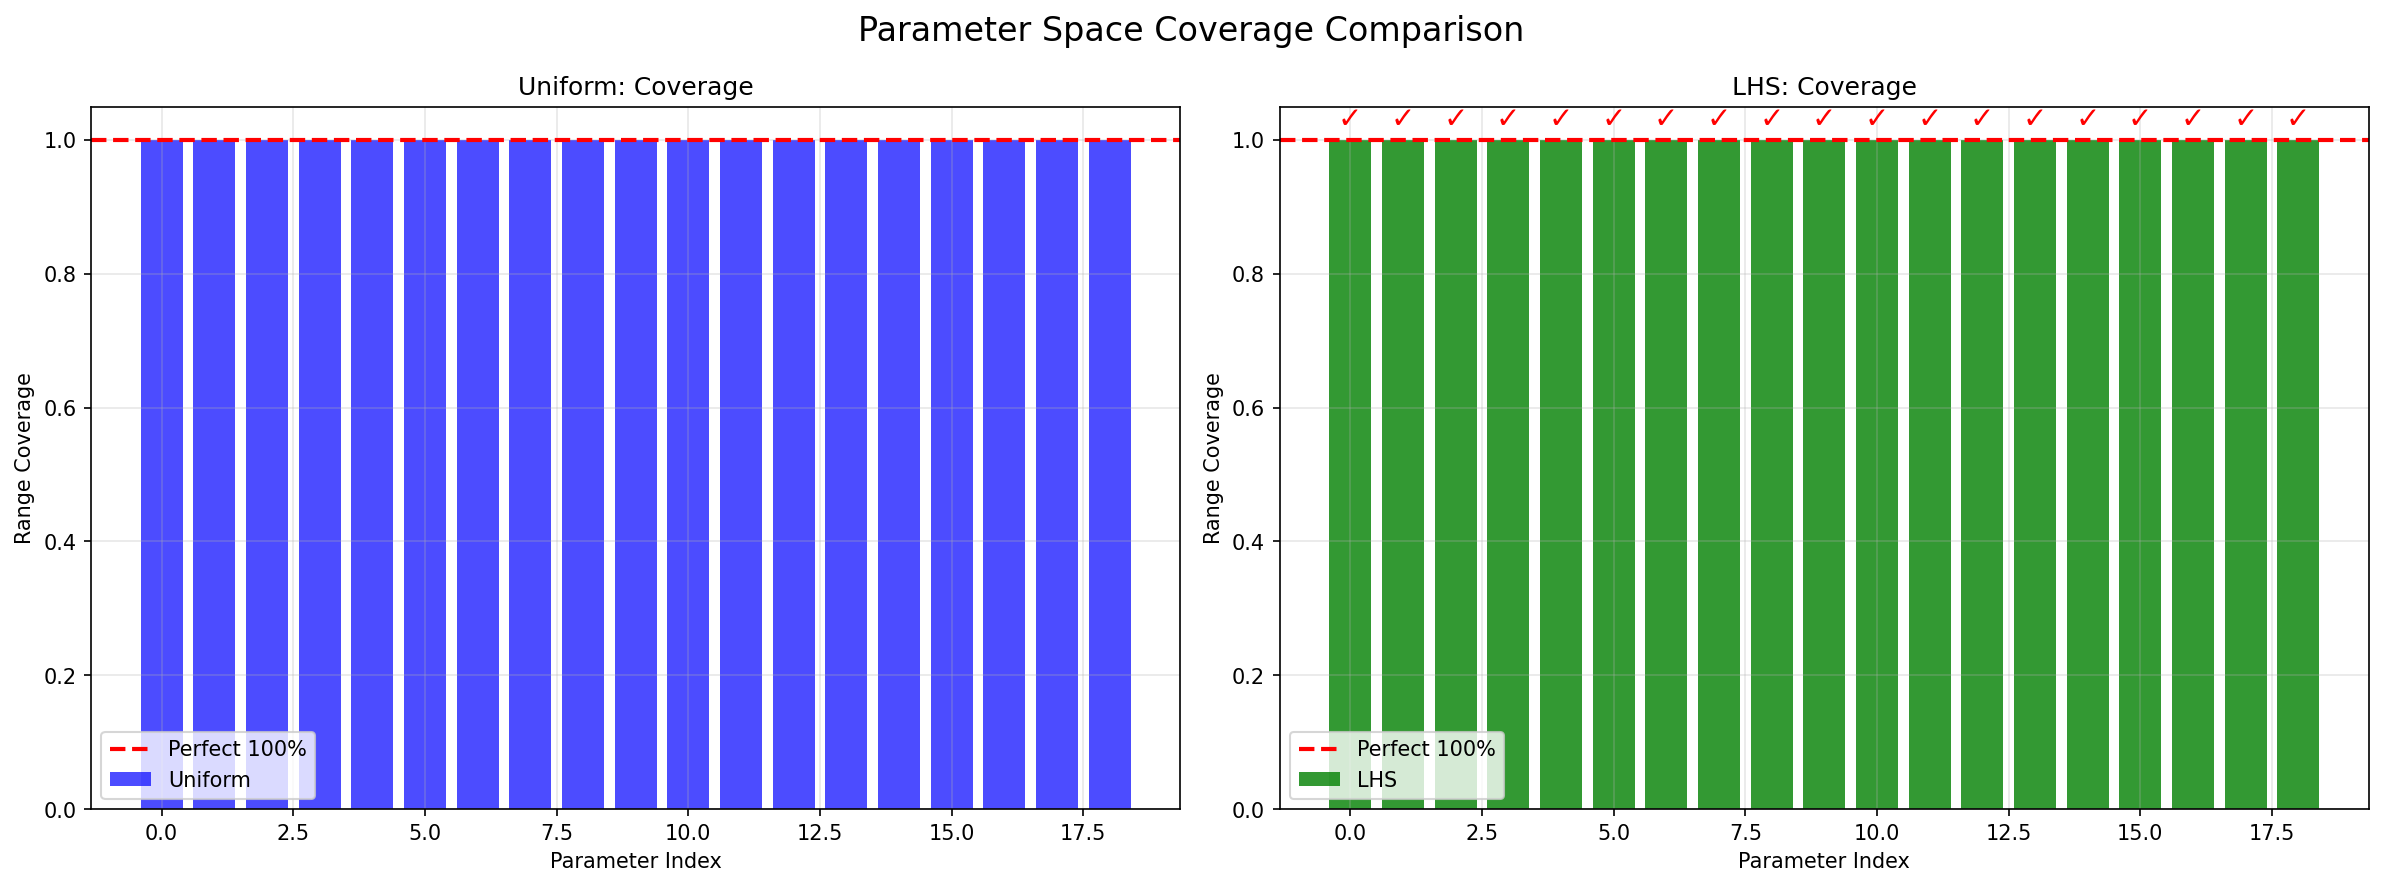
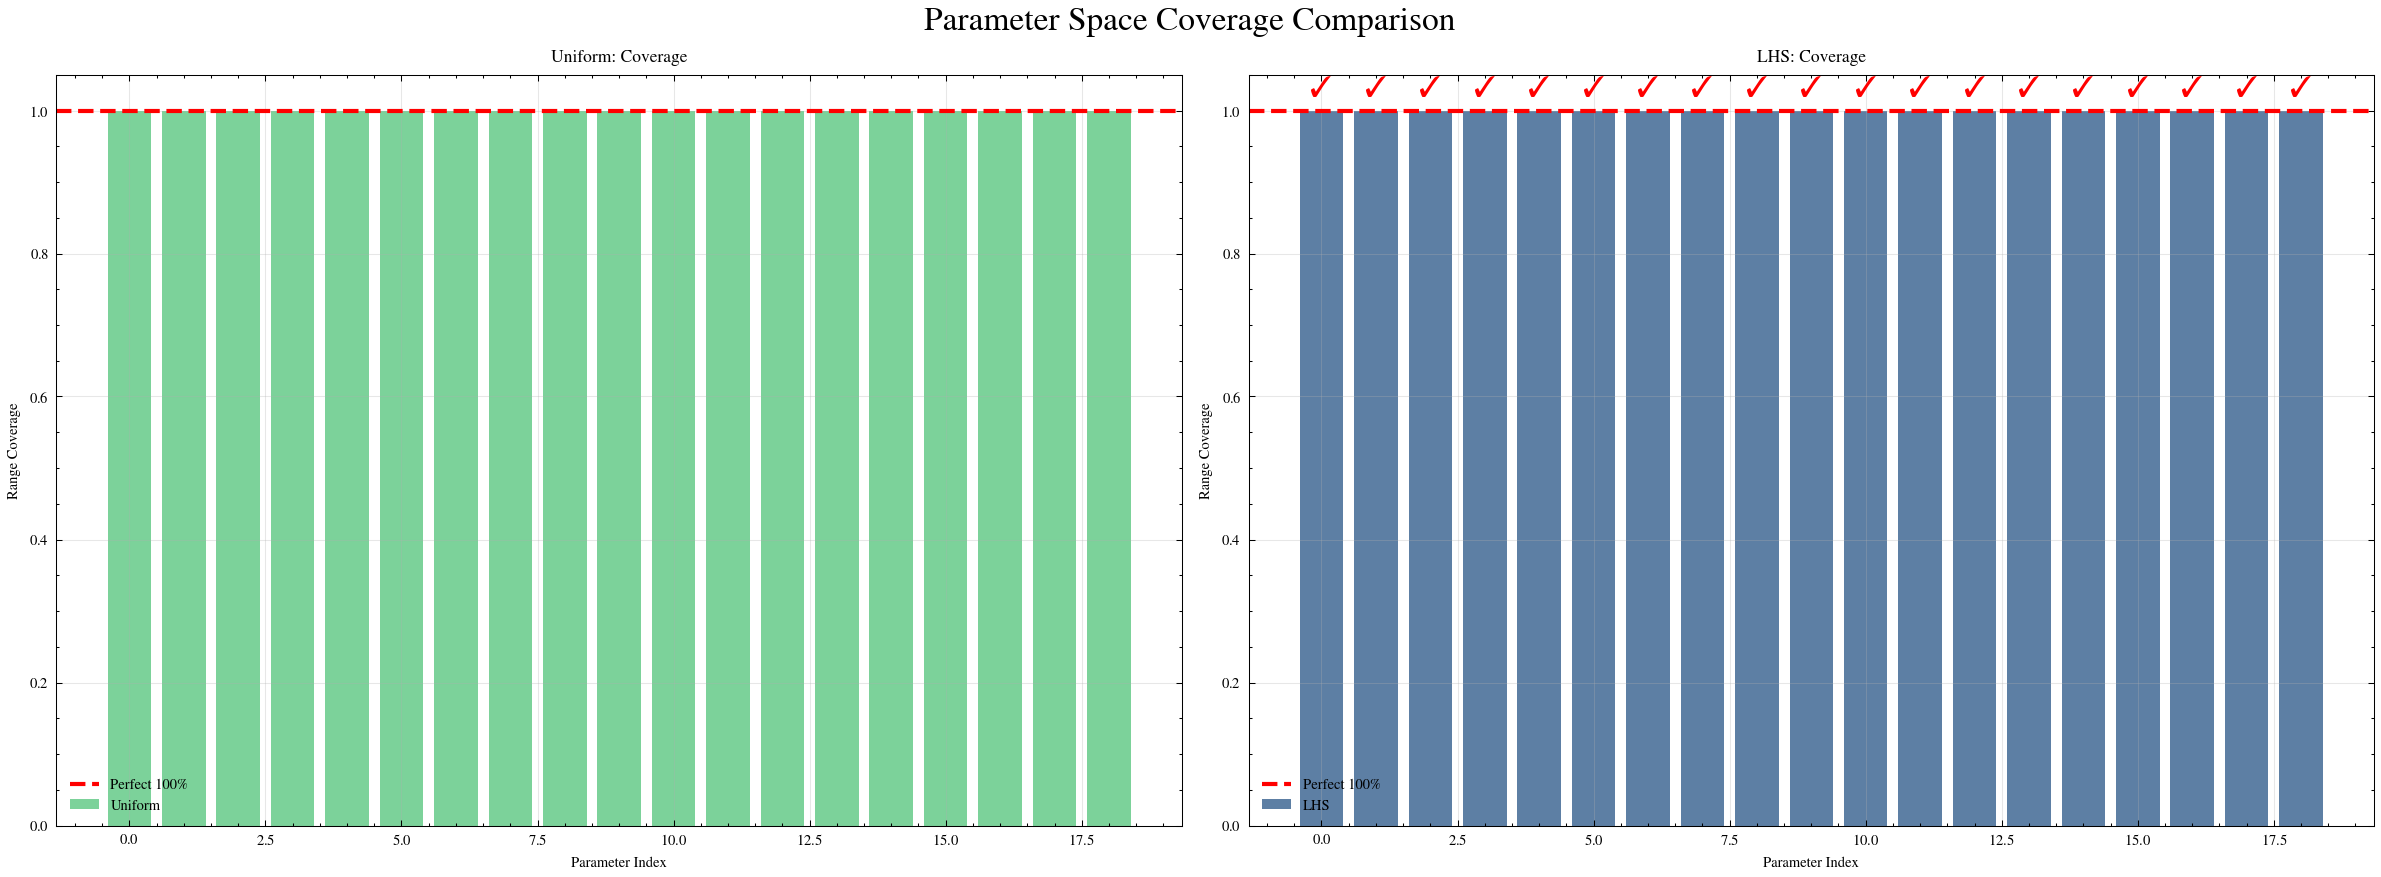
feat: general plotter styling update with new plots - chore: removed unused plots - feat: add mc run results outcome corner plot - feat: general plot styling update - feat: add tex rendering to some labels - feat: add latests plot gen results

diff --git a/src/strw_amuse/plots/plotter.py b/src/strw_amuse/plots/plotter.py
@@ -81,7 +81,7 @@ def plot_gif(frames, run_label="test", massive_threshold=70.0):
 
     # --- Gather all masses for color mapping ---
     all_masses = np.array([p.mass.value_in(units.MSun) for f in frames for p in f])
-    cmap = plt.get_cmap("inferno")
+    cmap = plt.get_cmap("viridis")
     norm = mcolors.Normalize(vmin=all_masses.min(), vmax=all_masses.max())
     sm = plt.cm.ScalarMappable(cmap=cmap, norm=norm)
 
@@ -89,7 +89,7 @@ def plot_gif(frames, run_label="test", massive_threshold=70.0):
         return cmap(norm(m))
 
     # --- Figure and subplots setup ---
-    fig, axes = plt.subplots(1, n_massive, figsize=(6 * n_massive, 6))
+    fig, axes = plt.subplots(1, n_massive, figsize=(8 * n_massive, 8))
     if n_massive == 1:
         axes = [axes]
 
@@ -108,8 +108,8 @@ def plot_gif(frames, run_label="test", massive_threshold=70.0):
             color="black",
         )
         time_text_list.append(t_text)
-        ax.set_xlabel("x [AU]")
-        ax.set_ylabel("y [AU]")
+        ax.set_xlabel("x (AU)")
+        ax.set_ylabel("y (AU)")
         ax.set_xlim(-100, 100)
         ax.set_ylim(-100, 100)
 
@@ -181,7 +181,7 @@ def plot_trajectory(frames, run_label="test"):
     # Build colormap for masses
     # ---------------------------------------------------------
     all_masses = np.array([p.mass.value_in(units.MSun) for f in frames for p in f])
-    cmap = plt.get_cmap("inferno")
+    cmap = plt.get_cmap("viridis")
     norm = mcolors.Normalize(vmin=all_masses.min(), vmax=all_masses.max())
     sm = plt.cm.ScalarMappable(cmap=cmap, norm=norm)
 
@@ -209,11 +209,11 @@ def plot_trajectory(frames, run_label="test"):
     # ---------------------------------------------------------
     # Prepare figure
     # ---------------------------------------------------------
-    fig, ax = plt.subplots(figsize=(8, 8), dpi=120)
-    ax.set_xlabel("x [AU]")
-    ax.set_ylabel("y [AU]")
+    fig, ax = plt.subplots(figsize=(8, 8), dpi=300)
+    ax.set_xlabel("x (AU)")
+    ax.set_ylabel("y (AU)")
     ax.set_title(f"Spaghetti plots: {run_label}")
-    plt.colorbar(sm, ax=ax, label="Mass [M$_\\odot$]")
+    plt.colorbar(sm, ax=ax, label=r"Mass [$M_{\odot}$]")
 
     # ---------------------------------------------------------
     # Helper to scatter stars
@@ -261,9 +261,9 @@ def plot_trajectory(frames, run_label="test"):
     # Save figure
     # ---------------------------------------------------------
     png_filename = os.path.join(output_dir, f"Spaghetti_plot_{run_label}.png")
-    plt.savefig(png_filename)
-    logger.info("Spaghetti plot saved as %s", png_filename)
+    fig.savefig(png_filename)
     plt.close(fig)
+    logger.info("Spaghetti plot saved as %s", png_filename)
 
 
 def sampler_nd_coverage_plot(
@@ -290,12 +290,15 @@ def sampler_nd_coverage_plot(
     low, high = sampler.nd_bounds(bounds)
     coverage_np = sampler.nd_coverage(samples_np)
     coverage_sp = sampler.nd_coverage(samples_sp)
+    cmap = plt.get_cmap("viridis")
+    np_color = cmap(0.7)
+    sp_color = cmap(0.3)
 
     # fig init
     fig, (ax1, ax2) = plt.subplots(1, 2, figsize=(16, 6))
 
     # Left: Uniform coverage
-    bars_np = ax1.bar(range(n_dims), coverage_np, color='blue', alpha=0.7, label='Uniform')
+    bars_np = ax1.bar(range(n_dims), coverage_np, color=np_color, alpha=0.7, label='Uniform')
     ax1.axhline(1.0, color='red', ls='--', lw=2, label='Perfect 100%')
     ax1.set_ylim(0, 1.05)
     ax1.set_xlabel('Parameter Index')
@@ -305,7 +308,7 @@ def sampler_nd_coverage_plot(
     ax1.grid(True, alpha=0.3)
 
     # Right: LHS coverage
-    bars_sp = ax2.bar(range(n_dims), coverage_sp, color='green', alpha=0.8, label='LHS')
+    bars_sp = ax2.bar(range(n_dims), coverage_sp, color=sp_color, alpha=0.8, label='LHS')
     ax2.axhline(1.0, color='red', ls='--', lw=2, label='Perfect 100%')
     ax2.set_ylim(0, 1.05)
     ax2.set_xlabel('Parameter Index')
@@ -319,18 +322,18 @@ def sampler_nd_coverage_plot(
         if cov > 0.99:
             ax2.text(i, cov + 0.01, '✓', ha='center', va='bottom', fontsize=14, color='red')
 
-    plt.suptitle('Parameter Space Coverage Comparison', fontsize=16)
+    fig.suptitle('Parameter Space Coverage Comparison', fontsize=16)
     plt.tight_layout()
-    plt.savefig(f'{save_dir}/1d_param_coverage_comparison.png', dpi=150, bbox_inches='tight')
+    fig.savefig(f'{save_dir}/1d_param_coverage_comparison.png', dpi=150, bbox_inches='tight')
     plt.close()
 
     # corner
-    fig_left = plt.figure(figsize=(20, 20))
+    fig_left = plt.figure(figsize=(10, 10))
     corner.corner(
         samples_np,
         fig=fig_left,
-        color='blue',
-        alpha=0.6,
+        color=np_color,
+        alpha=0.7,
         labels=[f'p{i}' for i in range(n_dims)],
         range=[(low[i], high[i]) for i in range(n_dims)],
         quantiles=[0.25, 0.5, 0.75],
@@ -339,25 +342,25 @@ def sampler_nd_coverage_plot(
         plot_density=False,
     )
 
-    fig_left.suptitle(f'Uniform Corner Plot ({n_samples} samples)', fontsize=16)
-    plt.savefig(f'{save_dir}/uniform.png', dpi=100, bbox_inches='tight')
+    fig_left.suptitle(f'Uniform Corner Plot ({n_samples} samples)', fontsize=18)
+    plt.savefig(f'{save_dir}/uniform.png', dpi=300, bbox_inches='tight')
     plt.close(fig_left)
 
-    fig_right = plt.figure(figsize=(20, 20))
+    fig_right = plt.figure(figsize=(10, 10))
     corner.corner(
         samples_sp,
         fig=fig_right,
-        color='green',
+        color=sp_color,
         alpha=0.7,
         labels=[f'p{i}' for i in range(n_dims)],
         range=[(low[i], high[i]) for i in range(n_dims)],
         quantiles=[0.25, 0.5, 0.75],
         smooth=0.05,
         plot_datapoints=False,
-    )  # SAFE
+    )
 
-    fig_right.suptitle(f'LHS Corner Plot ({n_samples} samples)', fontsize=16)
-    plt.savefig(f'{save_dir}/lhs.png', dpi=100, bbox_inches='tight')
+    fig_right.suptitle(f'LHS Corner Plot ({n_samples} samples)', fontsize=18)
+    plt.savefig(f'{save_dir}/lhs.png', dpi=300, bbox_inches='tight')
     plt.close(fig_right)
 
     # Summary stats
@@ -404,12 +407,14 @@ def plot_cross_section(
     sample_ids = mc_result.sample_ids[outcome_mask]
 
     n_plots = len(param_groups)
+    n_col = 2
+    n_row = (n_plots + n_col) // n_col
 
-    cmap = plt.get_cmap("inferno")
+    cmap = plt.get_cmap("viridis")
     band_color = cmap(0.7)
-    point_color = cmap(0.1)
+    point_color = cmap(0.3)
 
-    plt.figure(figsize=(8 * n_plots, 6))
+    plt.figure(figsize=(8 * n_col, 6 * n_row))
 
     for i, (group_name, param_names) in enumerate(param_groups.items(), start=1):
         # Collect all parameter values for the group
@@ -445,16 +450,8 @@ def plot_cross_section(
             sigma_binned[j] = area * np.sum(w_bin)
             sigma_err[j] = area * np.sqrt(np.sum(w_bin**2))
 
-        # # Plot
-        # ax = plt.subplot(1, n_plots, i)
-        # ax.errorbar(b_centers, sigma_binned, yerr=sigma_err, fmt='o', capsize=3, color='C0')
-        # ax.plot(b_centers, sigma_binned, '-', color='C0')
-        # ax.set_xlabel(group_name)
-        # ax.set_ylabel(r"$\sigma_\mathrm{ionized}$ [AU$^2$]")
-        # ax.grid(True)
-
         # Plot
-        ax = plt.subplot(1, n_plots, i)
+        ax = plt.subplot(n_row, n_col, i)
 
         # 1) Error band (semi-transparent)
         upper = sigma_binned + sigma_err
@@ -487,14 +484,16 @@ def plot_cross_section(
         )
 
         ax.set_xlabel(group_name, fontsize=14)
-        ax.set_ylabel(r"$\sigma_\mathrm{ionized}\left(\text{AU}^2\right)$", fontsize=14)
+        ax.set_ylabel(r"$\sigma_\mathrm{ionized}\left(\mathrm{AU}^2\right)$", fontsize=14)
+
+        ax.set_yscale("log")
 
         # Optional: show legend only once or on each subplot
         if i == 1:
-            ax.legend(fontsize=8)
+            ax.legend(fontsize=12)
 
     plt.tight_layout()
-    plt.savefig(f'{save_dir}/cross_section.png')
+    plt.savefig(f'{save_dir}/cross_section.png', dpi=300)
     plt.close()
     logger.info("VIS: `plot_cross_section()` finished.")
 
@@ -554,8 +553,11 @@ def corner_for_outcome(
         return None
 
     # ---- 4. Make corner plot ----
-    cmap = plt.get_cmap("inferno")
-    color = cmap(0.0)
+    cmap = plt.get_cmap("viridis")
+    color = cmap(0.3)
+
+    fig = plt.figure(figsize=(10, 10))
+
     label_kwargs = {"fontsize": 16}
     title_kwargs = {"fontsize": 18}
     hist_kwargs = {"color": color}
@@ -575,7 +577,7 @@ def corner_for_outcome(
         title_kwargs=title_kwargs,
         hist_kwargs=hist_kwargs,
     )
-    fig.savefig(f'{save_dir}/corner_outcome.png')
+    fig.savefig(f'{save_dir}/corner_outcome.png', dpi=300)
     plt.close(fig)
     logger.info("VIS: `corner_for_outcome()` finished.")
 
@@ -611,14 +613,14 @@ def plot_velocity_spin_mass(mc_result, outcome_filter=None, save_dir=OUTPUT_DIR_
     mass = data['mass_Msun']  # Msun
 
     fig, ax = plt.subplots(figsize=(8, 6))
-    sc = ax.scatter(v, spin, c=mass, cmap='inferno', s=10, edgecolor='none', alpha=0.8)
+    sc = ax.scatter(v, spin, c=mass, cmap='viridis', s=10, edgecolor='none', alpha=0.8)
     cbar = plt.colorbar(sc, ax=ax)
     cbar.set_label(r"Mass $\left(M_{\odot}\right)$", fontsize=14)
 
     ax.set_xscale("log")
     ax.set_yscale("log")
 
-    ax.set_xlabel(r"Velocity magnitude $\left(\text{km}\cdot\text{s}^{-1}\right)$", fontsize=14)
+    ax.set_xlabel(r"Velocity magnitude $\left(\text{km}~\text{s}^{-1}\right)$", fontsize=14)
     ax.set_ylabel(r"Spin $\left(\text{s}^{-1}\right)$", fontsize=14)
 
     ax.text(
@@ -639,6 +641,6 @@ def plot_velocity_spin_mass(mc_result, outcome_filter=None, save_dir=OUTPUT_DIR_
     )
 
     fig.tight_layout()
-    fig.savefig(f'{save_dir}/velocity_spin_mass.png')
+    fig.savefig(f'{save_dir}/velocity_spin_mass.png', dpi=300)
     plt.close(fig)
     logger.info("VIS: `plot_velocity_spin_mass()` finished.")

diff --git a/src/strw_amuse/utils/config.py b/src/strw_amuse/utils/config.py
@@ -58,9 +58,9 @@ BOUNDS: Final = np.array(
 # configs - Plotter param selection
 # ================================================================================================ #
 PARAM_CROSS_SECTION: Final = {
-    "impact parameter": ["impact_parameter_0", "impact_parameter_1"],
+    r"impact parameter $\left(\mathrm{AU}\right)$": ["impact_parameter_0", "impact_parameter_1"],
     "eccentricity": ["ecc_0", "ecc_1", "ecc_2"],
-    "separation": ["sep_0", "sep_1", "sep_2"],
+    r"separation $\left(\mathrm{AU}\right)$": ["sep_0", "sep_1", "sep_2"],
     "v_mag": ["v_mag_0", "v_mag_1"],
 }
 PARAM_CORNER: Final = [

diff --git a/README.md b/README.md
@@ -16,6 +16,7 @@ This is the README document for strw-amuse-project, a project for the 2025 [***S
     - [Some interesting questions](#some-interesting-questions)
   - [Example](#example)
   - [Example plots](#example-plots)
+  - [Flowchart](#flowchart)
   - [Archived](#archived)
     - [Steps](#steps)
     - [Configs](#configs)
@@ -236,11 +237,16 @@ At some Monte Carlo run performed with a prior version of the project code base,
 | Plot | Description |
 |------|-------------|
 | ![ref case](./media/gif/encounter_evolution_ref_case.gif) | Refrencase case of binary-binary-binary interaction. |
-| ![test case](./media/gif/encounter_evolution_test_case.gif) | Test case of binary-binary-binary interaction with creative ionized outcome. |
-| ![param uniform](./media/img/param/uniform.png) | Uniform sampler param space coverage |
-| ![param lhs](./media/img/param/lhs.png) | Latin Hypercube sampler param space coverage |
+| ![test case](./media/gif/encounter_evolution_test_case.gif) | Test case of binary-binary-binary interaction with creative bound (left side) and creative ionized (right side) outcome. |
+| ![param uniform](./media/img/param/uniform.png) | Uniform sampler param space coverage for `n_samples = 10000` |
+| ![param lhs](./media/img/param/lhs.png) | Latin Hypercube sampler param space coverage for `n_samples = 10000` |
 | ![param coverage comp](./media/img/param/1d_param_coverage_comparison.png) | Param coverage 1-d comparison |
-| ![Cross section](media/img/cross_section.png) | Cross section dependency over selective parameters |
+| ![cross section](media/img/cross_section.png) | Cross section dependency over selective parameters |
+| ![corner outcome](media/img/corner_outcome.png) | Corner plot of mc run outcomes with seletive param |
+
+## Flowchart
+
+![flowchat](media/img/flowchart.png)
 
 ---
 
